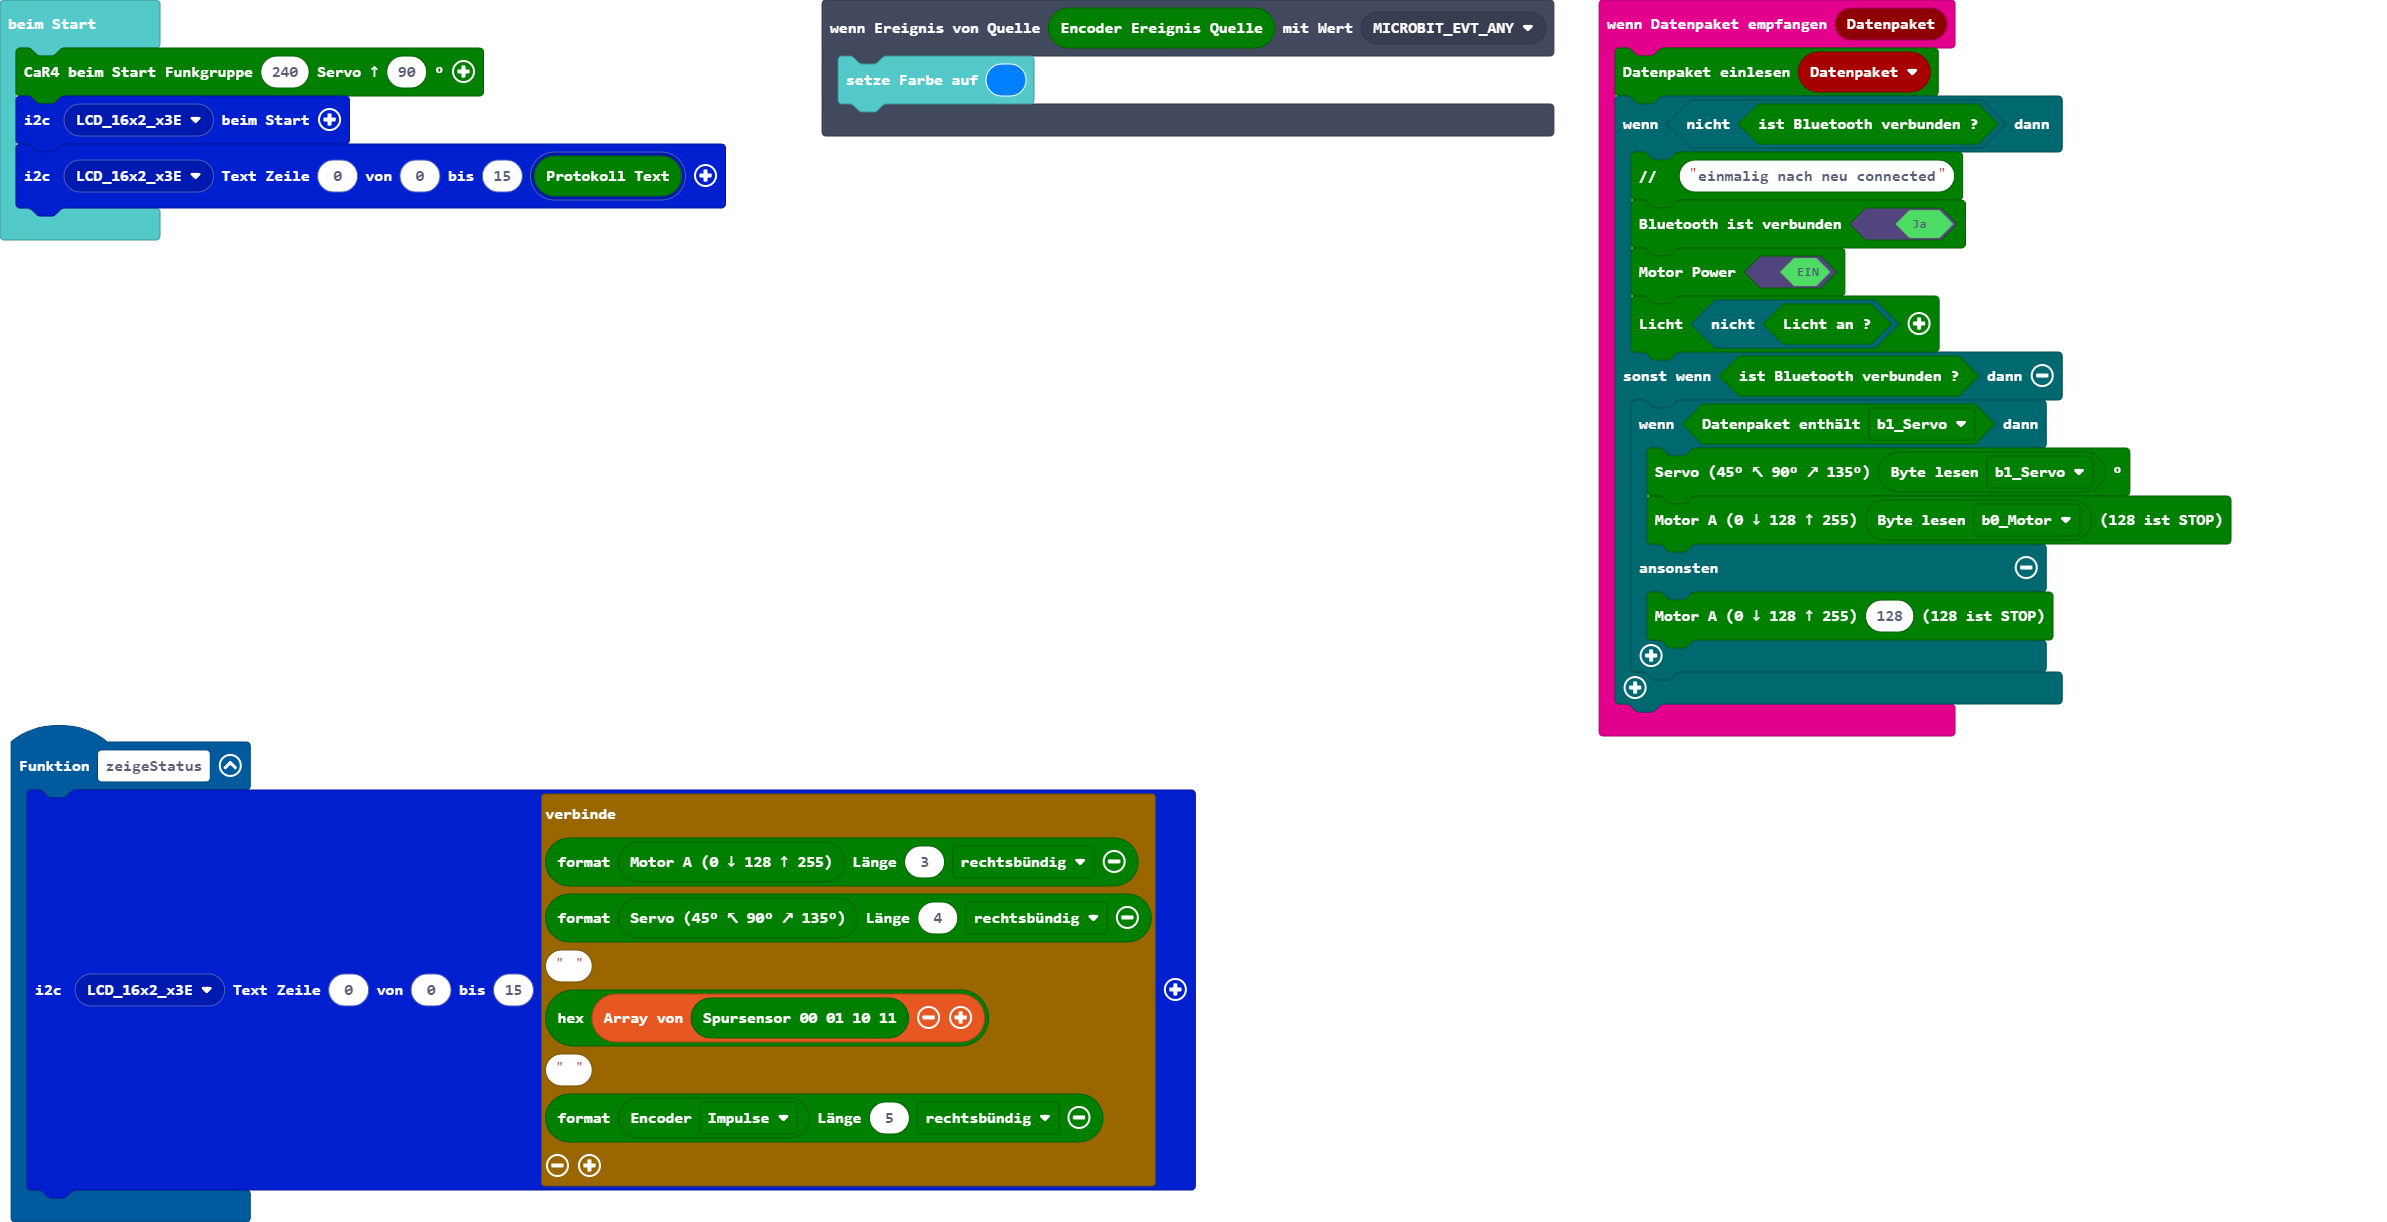
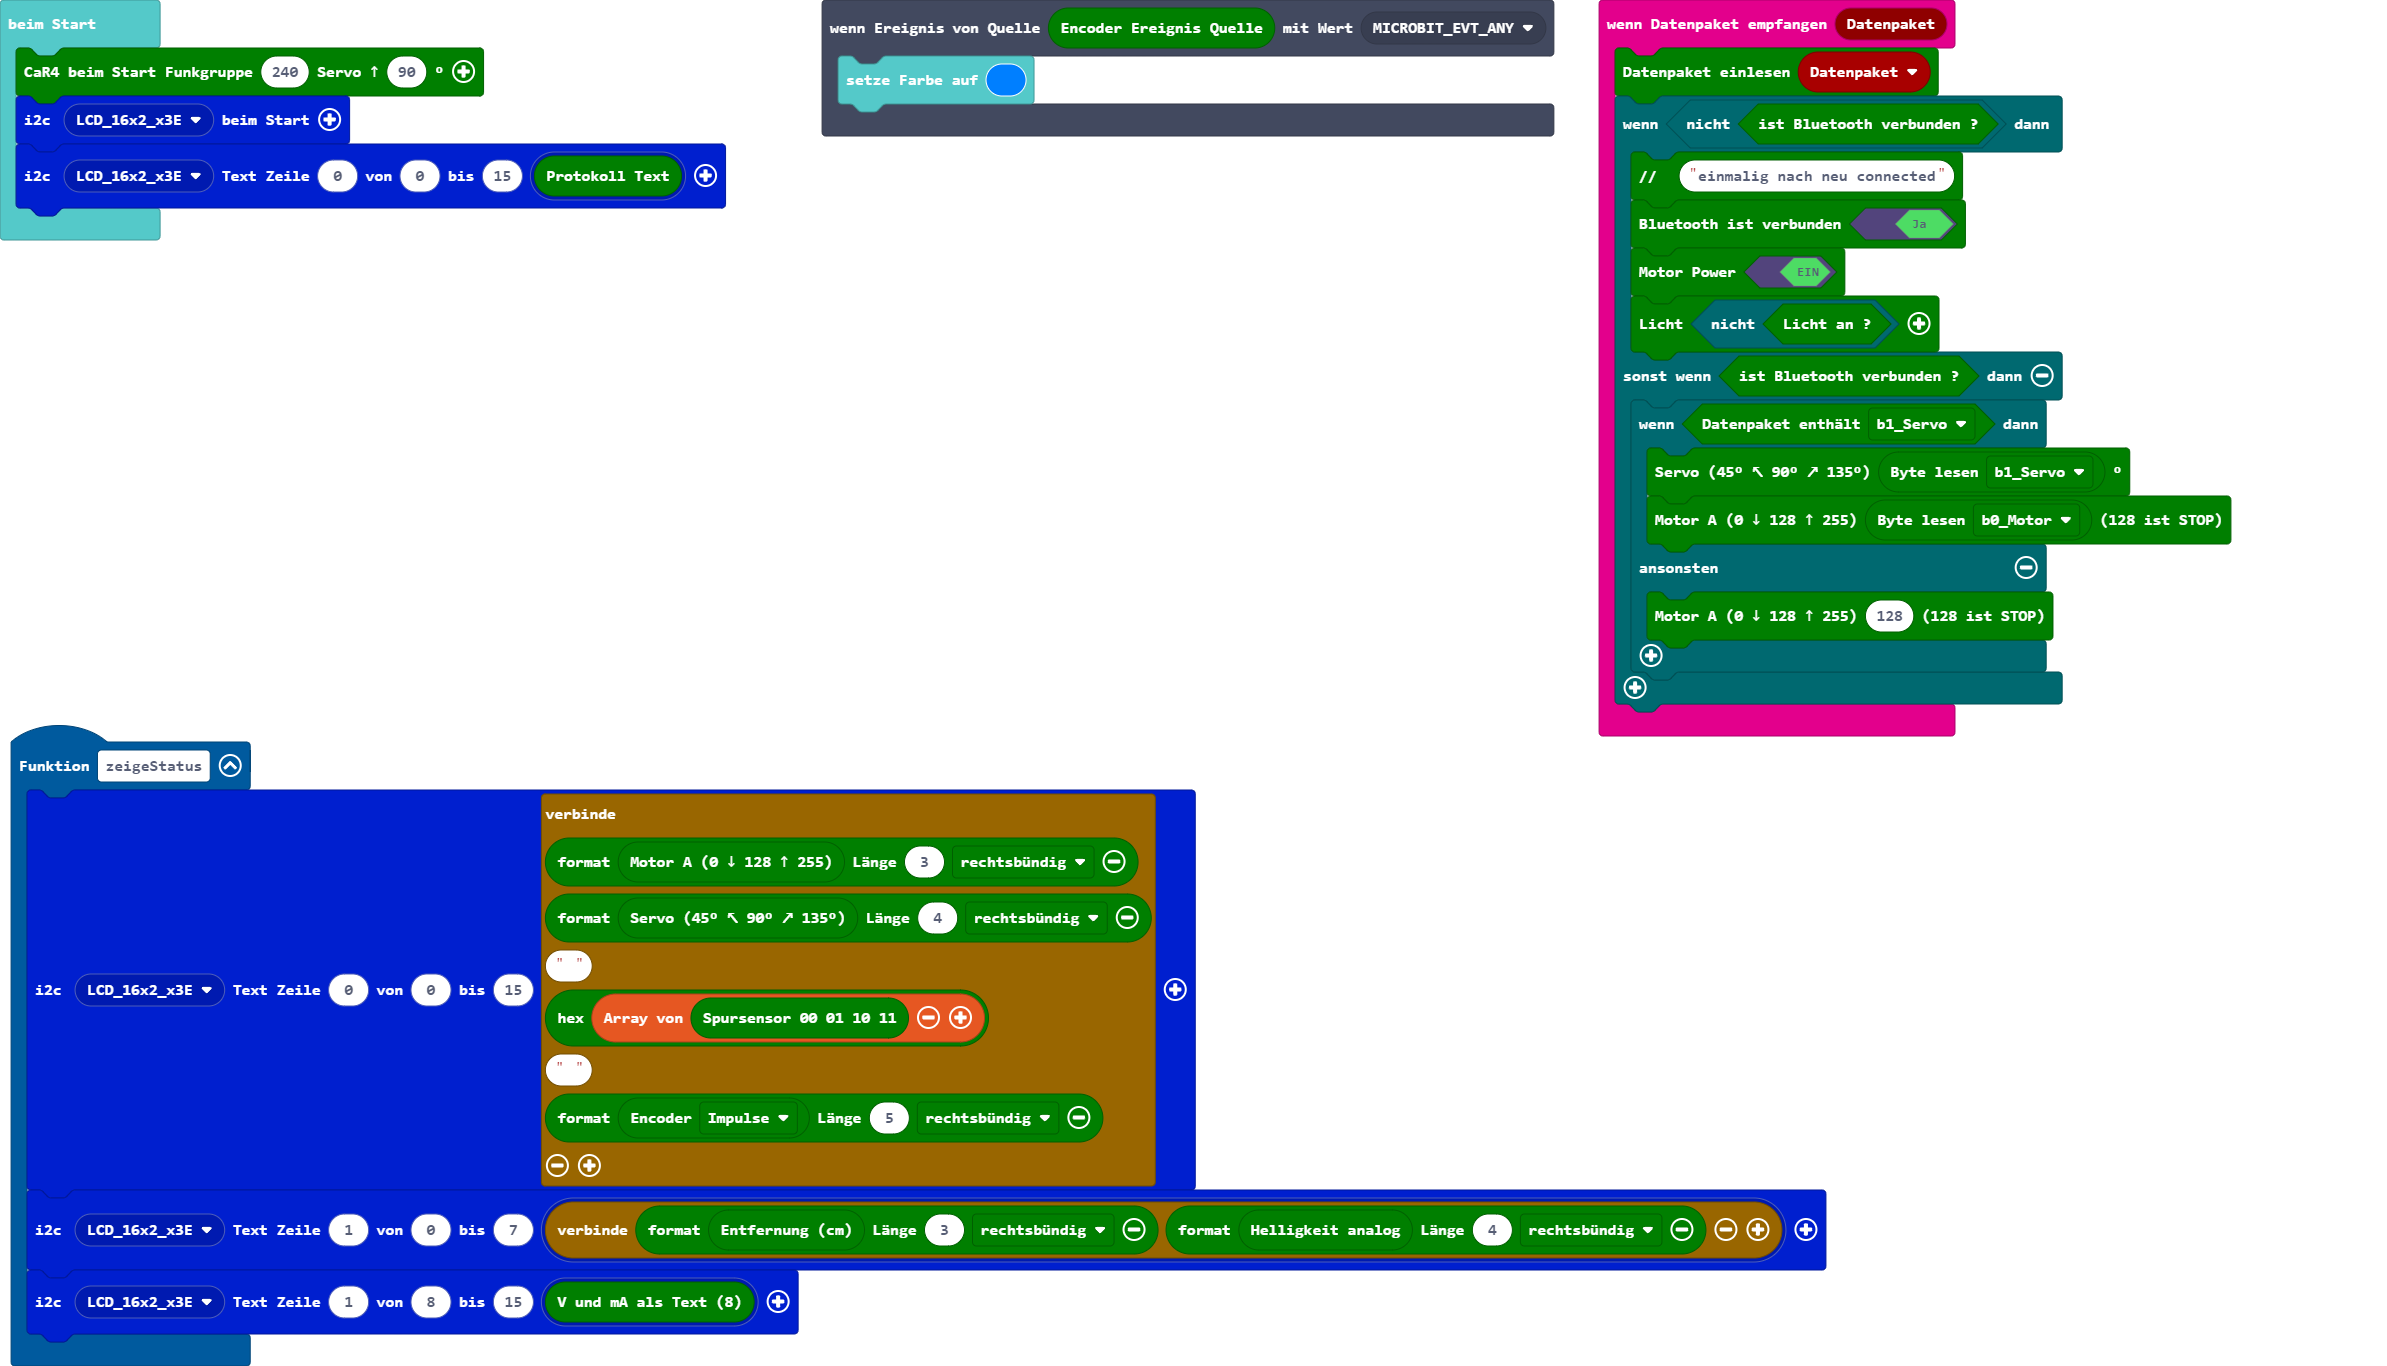
Aktualisiere main.blocks, main.ts

diff --git a/main.ts b/main.ts
@@ -1,5 +1,7 @@
 function zeigeStatus () {
     lcd16x2rgb.writeText(lcd16x2rgb.lcd16x2_eADDR(lcd16x2rgb.eADDR_LCD.LCD_16x2_x3E), 0, 0, 15, "" + car4.format(car4.motorAget(), 3, car4.eAlign.right) + car4.format(car4.servo_get(), 4, car4.eAlign.right) + " " + car4.hex([car4.spursensor_get()]) + " " + car4.format(car4.encoder_get(car4.eEncoderEinheit.Impulse), 5, car4.eAlign.right))
+    lcd16x2rgb.writeText(lcd16x2rgb.lcd16x2_eADDR(lcd16x2rgb.eADDR_LCD.LCD_16x2_x3E), 1, 0, 7, lcd16x2rgb.lcd16x2_text("" + car4.format(car4.entfernung_cm(), 3, car4.eAlign.right) + car4.format(car4.helligkeit_analog(), 4, car4.eAlign.right)))
+    lcd16x2rgb.writeText(lcd16x2rgb.lcd16x2_eADDR(lcd16x2rgb.eADDR_LCD.LCD_16x2_x3E), 1, 8, 15, lcd16x2rgb.lcd16x2_text(car4.wattmetertext()))
 }
 radio.onReceivedBuffer(function (Datenpaket) {
     car4.onReceivedBuffer(Datenpaket)
